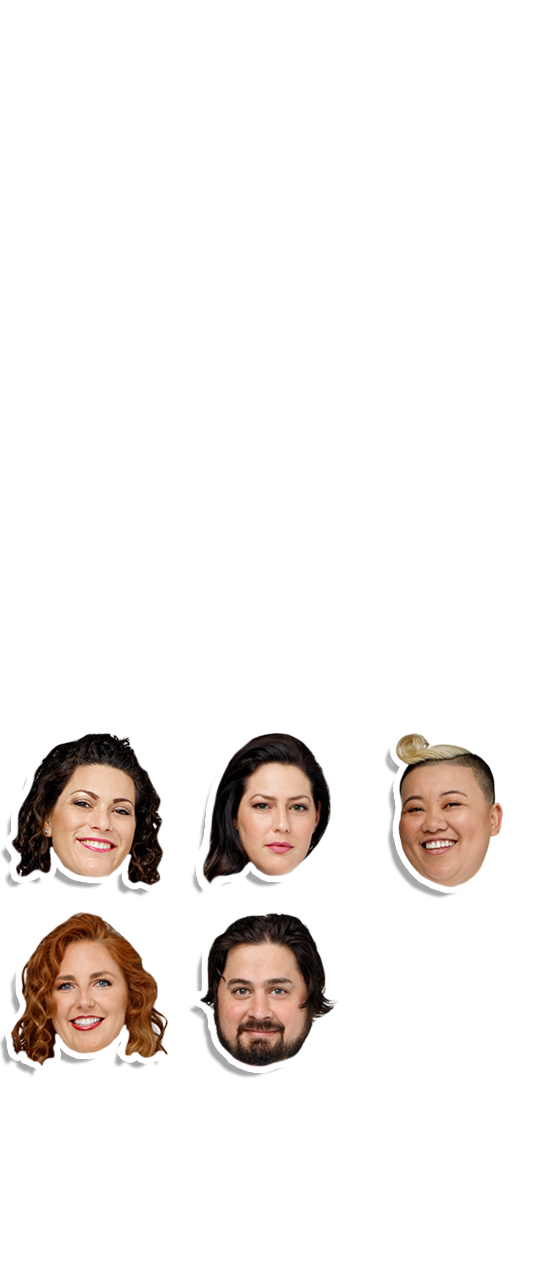
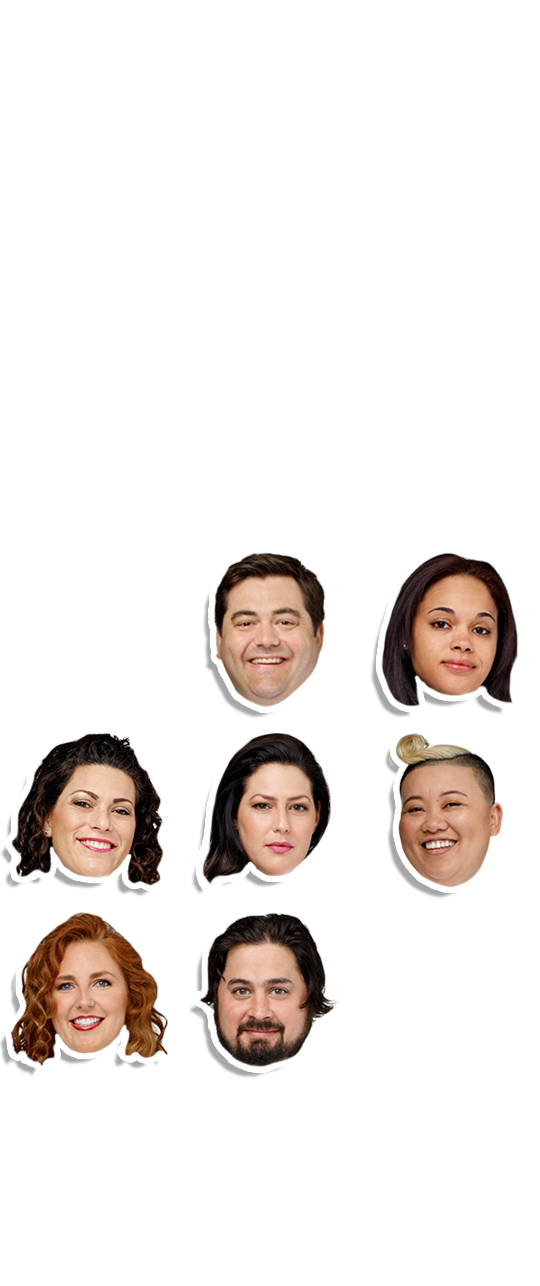
added new episode

Changed region(s): [[0.6815, 0.4044, 0.9778, 0.5599], [0.3556, 0.4044, 0.6222, 0.5599]]

diff --git a/css/main.css b/css/main.css
@@ -1,1 +1,1 @@
-html,body,div,span,applet,object,iframe,h1,h2,h3,h4,h5,h6,p,blockquote,pre,a,abbr,acronym,address,big,cite,code,del,dfn,em,img,ins,kbd,q,s,samp,small,strike,strong,sub,sup,tt,var,b,u,i,center,dl,dt,dd,ol,ul,li,fieldset,form,label,legend,table,caption,tbody,tfoot,thead,tr,th,td,article,aside,canvas,details,embed,figure,figcaption,footer,header,hgroup,menu,nav,output,ruby,section,summary,time,mark,audio,video{margin:0;padding:0;border:0;font-size:100%;font:inherit;vertical-align:baseline}article,aside,details,figcaption,figure,footer,header,hgroup,menu,nav,section{display:block}body{line-height:1}ol,ul{list-style:none}blockquote,q{quotes:none}blockquote:before,blockquote:after,q:before,q:after{content:'';content:none}table{border-collapse:collapse;border-spacing:0}*,*:after,*:before{-moz-box-sizing:border-box;-webkit-box-sizing:border-box;box-sizing:border-box}html{font-size:100%;-webkit-text-size-adjust:none}body{text-rendering:optimizeLegibility;-webkit-font-smoothing:antialiased;font-family:'Helvetica Neue',Helvetica,Arial,sans-serif;font-size:18px;line-height:1.4;color:white;background:#333}::-moz-selection{background-color:#ba55d3;color:white}::selection{background-color:#ba55d3;color:white}h1,p{margin-bottom:20px}h1{font-weight:bold}a{display:inline-block;text-decoration:none;color:#0ff}p a{border-bottom:1px dotted transparent;}p a:hover{border-bottom:1px dotted #0ff}p{margin:0 0 20px}em{font-style:italic}img:not(.avatar){width:100%;max-width:100%}.footnote{font-size:14px;color:rgba(255,255,255,0.6)}.cf:before,.grid:before,.cf:after,.grid:after{content:" ";display:table}.cf:after,.grid:after{clear:both}.nav-main{height:45px;position:relative;background:#333;}.nav-main a,.nav-main label{color:white}.nav-main .nav-home{margin:10px 20px;float:left}.nav-main input.menu-toggle{visibility:hidden;position:absolute;left:-100%}.nav-main label{padding:10px 20px;float:right;background:#800080;border-left:1px solid rgba(255,255,255,0.2);cursor:pointer}.nav-main .nav-seasons{display:none;position:absolute;top:45px;left:0;z-index:100}.nav-main .menu-toggle:checked ~ .nav-seasons{display:block}.nav-main .nav-seasons{background-image:linear-gradient(to right,#4682b4,#c71585)}.nav-seasons{width:100%;background-image:linear-gradient(to right,#4682b4,#008b8b);border-top:1px solid rgba(255,255,255,0.3);border-bottom:1px solid rgba(255,255,255,0.3);box-shadow:0 3px 3px rgba(0,0,0,0.2);}.nav-seasons li{float:left;border-right:1px solid rgba(255,255,255,0.3);}.nav-seasons li a{padding:10px;display:block;color:white;}.nav-seasons li a:hover{background:rgba(0,0,0,0.1)}.nav-seasons li span{display:block}.nav-seasons li span:first-of-type{font-size:24px;font-weight:bold}.nav-seasons li span:nth-of-type(2){font-size:15px}@media screen and (max-width:400px){.nav-seasons li{width:25%;}.nav-seasons li:nth-child(-n+12){border-bottom:1px solid rgba(255,255,255,0.3)}.nav-seasons li:nth-child(4),.nav-seasons li:nth-child(8),.nav-seasons li:nth-child(12){border-right:none}}@media screen and (min-width:401px) and (max-width:650px){.nav-seasons li{width:20%;}.nav-seasons li:nth-child(-n+10){border-bottom:1px solid rgba(255,255,255,0.3)}.nav-seasons li:nth-child(5),.nav-seasons li:nth-child(10){border-right:none}}@media screen and (min-width:651px) and (max-width:1030px){.nav-seasons li{width:14.28%;}.nav-seasons li:nth-child(-n+7){border-bottom:1px solid rgba(255,255,255,0.3)}.nav-seasons li:nth-child(7){border-right:none}}@media screen and (min-width:1031px){.nav-seasons li{width:7.69%;}.nav-seasons li:last-child{border-right:none}}@media screen and (max-width:700px){.grid{padding-bottom:40px}}@media screen and (min-width:701px){.grid-item{margin:0 0 30px;padding:0 15px;float:left}.grid-sm-1{width:100%}.grid-sm-2{width:50%}.grid-sm-3{width:33.33%}}@media screen and (min-width:1001px){.grid-item{margin:0 0 50px;padding:0 25px}.grid-lg-2{width:50%}.grid-lg-3{width:33.33%}.grid-lg-3-1{width:66.66%}.grid-lg-4{width:25%}.grid-lg-5{width:20%}}.intro{margin:0 auto 30px;padding:30px 15px;background:rgba(0,0,0,0.1);text-align:center;}.intro h1{font-size:45px;}.intro h1 span{display:block}.intro h1 span:last-child{font-size:30px}.intro h2{margin-bottom:20px;font-size:24px}.intro p{max-width:500px;margin-left:auto;margin-right:auto}@media screen and (max-width:500px){.intro h1{font-size:35px;}.intro h1 span:last-child{font-size:20px}}@media screen and (min-width:701px) and (max-width:1000px){.intro{margin-bottom:60px}}@media screen and (min-width:1001px){.intro{margin-bottom:100px}}@media screen and (min-width:701px){.avatar{width:90px;height:90px}}@media screen and (max-width:700px){.avatar{width:70px;height:70px}}.icon{background:no-repeat left top;}.icon.woman{background-image:url("../images/woman.svg")}.icon.man{background-image:url("../images/man.svg")}.stat .number{position:relative;font-weight:bold;}.stat .number span{display:inline-block}.stat .number span + span{margin-left:15px}.stat .number .roster{padding-left:50px;position:absolute;right:0;}.stat .number .roster .avatar{float:right}.stat .name{margin-left:10px;display:inline-block;position:absolute;background:rgba(0,0,0,0.2);border-radius:3px;font-weight:normal;line-height:1;}.stat .name .avatar{display:block;position:absolute}@media screen and (max-width:700px){.stat:not(.person){padding:10px 0;border-bottom:1px solid rgba(255,255,255,0.5);}.stat:not(.person) h2{padding-top:10px;float:left}.stat:not(.person) .number{text-align:right;font-size:30px}.stat:not(.person) .woman,.stat:not(.person) .man{background-position:left 9px;background-size:auto 23px;padding-left:23px}.stat.person h2{padding:20px 0 5px;border-bottom:1px solid rgba(255,255,255,0.5)}.stat.person .number{font-size:55px;}.stat.person .number .roster{top:8px}.stat.person .name{padding:8px 40px 8px 10px;top:25px;right:30px;font-size:15px;}.stat.person .name .avatar{top:-15px;right:-35px}}@media screen and (min-width:701px){.stat h2{border-bottom:1px solid rgba(255,255,255,0.5)}.stat .number{font-size:85px;}.stat .number .roster{top:15px}.stat .name{padding:8px 45px 6px 10px;top:50px;right:40px;font-size:16px;}.stat .name .avatar{top:-32px;right:-45px}.stat .woman,.stat .man{background-position:left center;background-size:auto 50px;padding-left:40px}}.featured{padding:30px 15px 20px;background:rgba(0,0,0,0.1);text-align:center;clear:left;}.featured .number,.featured .phrase{font-weight:bold}.featured .phrase{margin-top:5px;margin-bottom:20px;font-size:40px;line-height:1.2}.featured.restaurant-wars .avatar{margin-bottom:15px}.featured.phrase-list{background:rgba(255,255,255,0.1);border-top:1px solid rgba(255,255,255,0.2);border-bottom:1px solid rgba(255,255,255,0.2);}.featured.phrase-list .phrase{margin-bottom:40px}.featured.phrase-list p{margin-bottom:8px;padding:5px 45px 5px 10px;position:relative;background:rgba(0,0,0,0.05);border-radius:3px;}.featured.phrase-list p span{position:absolute;top:50%;-webkit-transform:translateY(-50%);-moz-transform:translateY(-50%);transform:translateY(-50%);right:10px;font-size:12px;font-weight:bold}.featured .roster{margin-left:auto;margin-right:auto;max-width:850px}@media screen and (max-width:700px){.featured{margin:30px 0;}.featured .number{font-size:40px}.featured .phrase{font-size:25px}.featured.phrase-list .grid-item{margin-bottom:0}}@media screen and (min-width:701px){.featured{margin:0 0 80px;}.featured .number{font-size:85px}.featured.phrase-list .grid-item{margin-bottom:20px}}.roster .avatar{margin:0 -5px;position:relative;z-index:2}.roster .winner{display:inline-block;position:relative;}.roster .winner:before{width:100%;display:block;position:absolute;left:0;content:'WINNER!';z-index:1;font-size:11px;font-weight:bold;letter-spacing:1px;color:white}h2 + .roster{margin-top:15px}@media screen and (max-width:390px){.stat.roster-lg{min-height:190px}}@media screen and (max-width:450px){.season-13 .stat.roster-lg{min-height:190px}}@media screen and (max-width:700px){.roster .winner:before{top:75px}}@media screen and (min-width:701px){.roster .winner:before{top:92px}}@media screen and (min-width:701px) and (max-width:1000px){.stat.roster-lg{min-height:240px}}.ranking{list-style:none;}.ranking li{width:100%;margin:0 0 15px;padding:25px 0;padding-left:60px;position:relative;background-image:linear-gradient(to right,rgba(0,0,0,0) 20px,rgba(0,0,0,0.2) 20px);border-radius:0 3px 3px 0;font-size:16px;}.ranking li .chef{width:90px;height:90px;position:absolute;top:-10px;background:no-repeat;background-size:270px auto}.ranking li:nth-child(1) .chef{background-position:0 0}.ranking li:nth-child(2) .chef{background-position:-90px 0}.ranking li:nth-child(3) .chef{background-position:-180px 0}.ranking li:nth-child(4) .chef{background-position:0 -90px}.ranking li:nth-child(5) .chef{background-position:-90px -90px}.ranking li:nth-child(6) .chef{background-position:-180px -90px}.ranking li:nth-child(7) .chef{background-position:0 -180px}.ranking li:nth-child(8) .chef{background-position:-90px -180px}.ranking li:nth-child(9) .chef{background-position:-180px -180px}.ranking li:nth-child(10) .chef{background-position:0 -270px}.ranking li:nth-child(11) .chef{background-position:-90px -270px}.ranking li:nth-child(12) .chef{background-position:-180px -270px}.ranking li:nth-child(13) .chef{background-position:0 -360px}.ranking li:nth-child(14) .chef{background-position:-90px -360px}.ranking li:nth-child(15) .chef{background-position:-180px -360px}.ranking li:nth-child(16) .chef{background-position:0 -450px}.ranking li:nth-child(17) .chef{background-position:-90px -450px}.ranking li:nth-child(18) .chef{background-position:-180px -450px}.ranking li:nth-child(19) .chef{background-position:0 -540px}.ranking li:nth-child(20) .chef{background-position:-90px -540px}.ranking li span{padding-right:50px;display:block;position:relative;}.ranking li span:after{padding:7px 10px;position:absolute;right:5px;top:-6px;font-weight:bold}.ranking li:nth-child(2) span:after{content:'2nd'}.ranking li:nth-child(2) span:after{content:'2nd'}.ranking li:nth-child(3) span:after{content:'3rd'}.ranking li:nth-child(4) span:after{content:'4th'}.ranking li:nth-child(5) span:after{content:'5th'}.ranking li:nth-child(6) span:after{content:'6th'}.ranking li:nth-child(7) span:after{content:'7th'}.ranking li:nth-child(8) span:after{content:'8th'}.ranking li:nth-child(9) span:after{content:'9th'}.ranking li:nth-child(10) span:after{content:'10th'}.ranking li:nth-child(11) span:after{content:'11th'}.ranking li:nth-child(12) span:after{content:'12th'}.ranking li:nth-child(13) span:after{content:'13th'}.ranking li:nth-child(14) span:after{content:'14th'}.ranking li:nth-child(15) span:after{content:'15th'}.ranking li:nth-child(16) span:after{content:'16th'}.ranking li:nth-child(17) span:after{content:'17th'}.ranking li:nth-child(18) span:after{content:'18th'}.ranking li:nth-child(19) span:after{content:'19th'}.ranking li:nth-child(20) span:after{content:'20th'}.ranking li:first-child span:before,.ranking li.fan-fave span:before{width:0;height:0;content:'';position:absolute;right:-10px;top:25px;border-style:solid;border-width:10px 10px 0 0}.ranking li:first-child span:after,.ranking li.fan-fave span:after{right:-10px;font-size:16px;line-height:1}.ranking li:first-child span:before{border-color:#daa520 transparent transparent transparent}.ranking li:first-child span:after{content:'Winner';background:#ffd700;color:#a52a2a}.ranking li.fan-fave span:before{border-color:#4b0082 transparent transparent transparent}.ranking li.fan-fave span:after{content:'Fan Fave';background:#9932cc;color:white}.ranking.current li:nth-child(-n+12){display:none}@media screen and (max-width:700px){.ranking li{padding:15px 0;padding-left:55px;}.ranking li .chef{left:-15px;width:70px;height:70px;background-size:210px auto}.ranking li:nth-child(1) .chef{background-position:0 0}.ranking li:nth-child(2) .chef{background-position:-70px 0}.ranking li:nth-child(3) .chef{background-position:-140px 0}.ranking li:nth-child(4) .chef{background-position:0 -70px}.ranking li:nth-child(5) .chef{background-position:-70px -70px}.ranking li:nth-child(6) .chef{background-position:-140px -70px}.ranking li:nth-child(7) .chef{background-position:0 -140px}.ranking li:nth-child(8) .chef{background-position:-70px -140px}.ranking li:nth-child(9) .chef{background-position:-140px -140px}.ranking li:nth-child(10) .chef{background-position:0 -210px}.ranking li:nth-child(11) .chef{background-position:-70px -210px}.ranking li:nth-child(12) .chef{background-position:-140px -210px}.ranking li:nth-child(13) .chef{background-position:0 -280px}.ranking li:nth-child(14) .chef{background-position:-70px -280px}.ranking li:nth-child(15) .chef{background-position:-140px -280px}.ranking li:nth-child(16) .chef{background-position:0 -350px}.ranking li:nth-child(17) .chef{background-position:-70px -350px}.ranking li:nth-child(18) .chef{background-position:-140px -350px}.ranking li:nth-child(19) .chef{background-position:0 -420px}.ranking li:nth-child(20) .chef{background-position:-70px -420px}}@media screen and (min-width:701px){.ranking li{padding-left:60px;}.ranking li .chef{left:-30px}}footer{padding:40px 20px;background:#333;text-align:center;}footer p{margin-bottom:20px}.p0{padding:0}.m0{margin:0}.center{text-align:center}.left{text-align:left}.bg-dark{background:rgba(0,0,0,0.1)}.bg-light{background:rgba(255,255,255,0.1)}.season{background:linear-gradient(175deg,#008b8b 0,#c71585 100%);padding:20px;}.season.home{background:linear-gradient(170deg,#4682b4 0,#008b8b 50%,#c71585 100%)}.season.glossary,.season.four-oh-four{background:linear-gradient(170deg,#4682b4 0,#008b8b 50%)}.season-01 .ranking li .chef{background-image:url("/images/season-01.png")}.season-02 .ranking li .chef{background-image:url("/images/season-02.png")}.season-03 .ranking li .chef{background-image:url("/images/season-03.png")}.season-04 .ranking li .chef{background-image:url("/images/season-04.png")}.season-05 .ranking li .chef{background-image:url("/images/season-05.png")}.season-06 .ranking li .chef{background-image:url("/images/season-06.png")}.season-07 .ranking li .chef{background-image:url("/images/season-07.png")}.season-08 .ranking li .chef{background-image:url("/images/season-08.png")}.season-09 .ranking li .chef{background-image:url("/images/season-09.png")}.season-10 .ranking li .chef{background-image:url("/images/season-10.png")}.season-11 .ranking li .chef{background-image:url("/images/season-11.png")}.season-12 .ranking li .chef{background-image:url("/images/season-12.png")}.season-13 .ranking li .chef{background-image:url("/images/season-13.png")}.glossary-list{max-width:550px;margin:0 auto 60px;}.glossary-list dt{margin-bottom:10px;font-weight:bold;font-size:20px}.glossary-list dd{margin-bottom:40px}.glossary-list p{margin-left:20px;margin-bottom:20px}.glossary-list ol{list-style:decimal;padding-left:45px;}.glossary-list ol li{margin-bottom:10px}@media screen and (min-width:1001px){.glossary-list{margin-top:-40px}}
+html,body,div,span,applet,object,iframe,h1,h2,h3,h4,h5,h6,p,blockquote,pre,a,abbr,acronym,address,big,cite,code,del,dfn,em,img,ins,kbd,q,s,samp,small,strike,strong,sub,sup,tt,var,b,u,i,center,dl,dt,dd,ol,ul,li,fieldset,form,label,legend,table,caption,tbody,tfoot,thead,tr,th,td,article,aside,canvas,details,embed,figure,figcaption,footer,header,hgroup,menu,nav,output,ruby,section,summary,time,mark,audio,video{margin:0;padding:0;border:0;font-size:100%;font:inherit;vertical-align:baseline}article,aside,details,figcaption,figure,footer,header,hgroup,menu,nav,section{display:block}body{line-height:1}ol,ul{list-style:none}blockquote,q{quotes:none}blockquote:before,blockquote:after,q:before,q:after{content:'';content:none}table{border-collapse:collapse;border-spacing:0}*,*:after,*:before{-moz-box-sizing:border-box;-webkit-box-sizing:border-box;box-sizing:border-box}html{font-size:100%;-webkit-text-size-adjust:none}body{text-rendering:optimizeLegibility;-webkit-font-smoothing:antialiased;font-family:'Helvetica Neue',Helvetica,Arial,sans-serif;font-size:18px;line-height:1.4;color:white;background:#333}::-moz-selection{background-color:#ba55d3;color:white}::selection{background-color:#ba55d3;color:white}h1,p{margin-bottom:20px}h1{font-weight:bold}a{display:inline-block;text-decoration:none;color:#0ff}p a{border-bottom:1px dotted transparent;}p a:hover{border-bottom:1px dotted #0ff}p{margin:0 0 20px}em{font-style:italic}img:not(.avatar){width:100%;max-width:100%}.footnote{font-size:14px;color:rgba(255,255,255,0.6)}.cf:before,.grid:before,.cf:after,.grid:after{content:" ";display:table}.cf:after,.grid:after{clear:both}.nav-main{height:45px;position:relative;background:#333;}.nav-main a,.nav-main label{color:white}.nav-main .nav-home{margin:10px 20px;float:left}.nav-main input.menu-toggle{visibility:hidden;position:absolute;left:-100%}.nav-main label{padding:10px 20px;float:right;background:#800080;border-left:1px solid rgba(255,255,255,0.2);cursor:pointer}.nav-main .nav-seasons{display:none;position:absolute;top:45px;left:0;z-index:100}.nav-main .menu-toggle:checked ~ .nav-seasons{display:block}.nav-main .nav-seasons{background-image:linear-gradient(to right,#4682b4,#c71585)}.nav-seasons{width:100%;background-image:linear-gradient(to right,#4682b4,#008b8b);border-top:1px solid rgba(255,255,255,0.3);border-bottom:1px solid rgba(255,255,255,0.3);box-shadow:0 3px 3px rgba(0,0,0,0.2);}.nav-seasons li{float:left;border-right:1px solid rgba(255,255,255,0.3);}.nav-seasons li a{padding:10px;display:block;color:white;}.nav-seasons li a:hover{background:rgba(0,0,0,0.1)}.nav-seasons li span{display:block}.nav-seasons li span:first-of-type{font-size:24px;font-weight:bold}.nav-seasons li span:nth-of-type(2){font-size:15px}@media screen and (max-width:400px){.nav-seasons li{width:25%;}.nav-seasons li:nth-child(-n+12){border-bottom:1px solid rgba(255,255,255,0.3)}.nav-seasons li:nth-child(4),.nav-seasons li:nth-child(8),.nav-seasons li:nth-child(12){border-right:none}}@media screen and (min-width:401px) and (max-width:650px){.nav-seasons li{width:20%;}.nav-seasons li:nth-child(-n+10){border-bottom:1px solid rgba(255,255,255,0.3)}.nav-seasons li:nth-child(5),.nav-seasons li:nth-child(10){border-right:none}}@media screen and (min-width:651px) and (max-width:1030px){.nav-seasons li{width:14.28%;}.nav-seasons li:nth-child(-n+7){border-bottom:1px solid rgba(255,255,255,0.3)}.nav-seasons li:nth-child(7){border-right:none}}@media screen and (min-width:1031px){.nav-seasons li{width:7.69%;}.nav-seasons li:last-child{border-right:none}}@media screen and (max-width:700px){.grid{padding-bottom:40px}}@media screen and (min-width:701px){.grid-item{margin:0 0 30px;padding:0 15px;float:left}.grid-sm-1{width:100%}.grid-sm-2{width:50%}.grid-sm-3{width:33.33%}}@media screen and (min-width:1001px){.grid-item{margin:0 0 50px;padding:0 25px}.grid-lg-2{width:50%}.grid-lg-3{width:33.33%}.grid-lg-3-1{width:66.66%}.grid-lg-4{width:25%}.grid-lg-5{width:20%}}.intro{margin:0 auto 30px;padding:30px 15px;background:rgba(0,0,0,0.1);text-align:center;}.intro h1{font-size:45px;}.intro h1 span{display:block}.intro h1 span:last-child{font-size:30px}.intro h2{margin-bottom:20px;font-size:24px}.intro p{max-width:500px;margin-left:auto;margin-right:auto}@media screen and (max-width:500px){.intro h1{font-size:35px;}.intro h1 span:last-child{font-size:20px}}@media screen and (min-width:701px) and (max-width:1000px){.intro{margin-bottom:60px}}@media screen and (min-width:1001px){.intro{margin-bottom:100px}}@media screen and (min-width:701px){.avatar{width:90px;height:90px}}@media screen and (max-width:700px){.avatar{width:70px;height:70px}}.icon{background:no-repeat left top;}.icon.woman{background-image:url("../images/woman.svg")}.icon.man{background-image:url("../images/man.svg")}.stat .number{position:relative;font-weight:bold;}.stat .number span{display:inline-block}.stat .number span + span{margin-left:15px}.stat .number .roster{padding-left:50px;position:absolute;right:0;}.stat .number .roster .avatar{float:right}.stat .name{margin-left:10px;display:inline-block;position:absolute;background:rgba(0,0,0,0.2);border-radius:3px;font-weight:normal;line-height:1;}.stat .name .avatar{display:block;position:absolute}@media screen and (max-width:700px){.stat:not(.person){padding:10px 0;border-bottom:1px solid rgba(255,255,255,0.5);}.stat:not(.person) h2{padding-top:10px;float:left}.stat:not(.person) .number{text-align:right;font-size:30px}.stat:not(.person) .woman,.stat:not(.person) .man{background-position:left 9px;background-size:auto 23px;padding-left:23px}.stat.person h2{padding:20px 0 5px;border-bottom:1px solid rgba(255,255,255,0.5)}.stat.person .number{font-size:55px;}.stat.person .number .roster{top:8px}.stat.person .name{padding:8px 40px 8px 10px;top:25px;right:30px;font-size:15px;}.stat.person .name .avatar{top:-15px;right:-35px}}@media screen and (min-width:701px){.stat h2{border-bottom:1px solid rgba(255,255,255,0.5)}.stat .number{font-size:85px;}.stat .number .roster{top:15px}.stat .name{padding:8px 45px 6px 10px;top:50px;right:40px;font-size:16px;}.stat .name .avatar{top:-32px;right:-45px}.stat .woman,.stat .man{background-position:left center;background-size:auto 50px;padding-left:40px}}.featured{padding:30px 15px 20px;background:rgba(0,0,0,0.1);text-align:center;clear:left;}.featured .number,.featured .phrase{font-weight:bold}.featured .phrase{margin-top:5px;margin-bottom:20px;font-size:40px;line-height:1.2}.featured.restaurant-wars .avatar{margin-bottom:15px}.featured.phrase-list{background:rgba(255,255,255,0.1);border-top:1px solid rgba(255,255,255,0.2);border-bottom:1px solid rgba(255,255,255,0.2);}.featured.phrase-list .phrase{margin-bottom:40px}.featured.phrase-list p{margin-bottom:8px;padding:5px 45px 5px 10px;position:relative;background:rgba(0,0,0,0.05);border-radius:3px;}.featured.phrase-list p span{position:absolute;top:50%;-webkit-transform:translateY(-50%);-moz-transform:translateY(-50%);transform:translateY(-50%);right:10px;font-size:12px;font-weight:bold}.featured .roster{margin-left:auto;margin-right:auto;max-width:850px}@media screen and (max-width:700px){.featured{margin:30px 0;}.featured .number{font-size:40px}.featured .phrase{font-size:25px}.featured.phrase-list .grid-item{margin-bottom:0}}@media screen and (min-width:701px){.featured{margin:0 0 80px;}.featured .number{font-size:85px}.featured.phrase-list .grid-item{margin-bottom:20px}}.roster .avatar{margin:0 -5px;position:relative;z-index:2}.roster .winner{display:inline-block;position:relative;}.roster .winner:before{width:100%;display:block;position:absolute;left:0;content:'WINNER!';z-index:1;font-size:11px;font-weight:bold;letter-spacing:1px;color:white}h2 + .roster{margin-top:15px}@media screen and (max-width:390px){.stat.roster-lg{min-height:190px}}@media screen and (max-width:450px){.season-13 .stat.roster-lg{min-height:190px}}@media screen and (max-width:700px){.roster .winner:before{top:75px}}@media screen and (min-width:701px){.roster .winner:before{top:92px}}@media screen and (min-width:701px) and (max-width:1000px){.stat.roster-lg{min-height:240px}}.ranking{list-style:none;}.ranking li{width:100%;margin:0 0 15px;padding:25px 0;padding-left:60px;position:relative;background-image:linear-gradient(to right,rgba(0,0,0,0) 20px,rgba(0,0,0,0.2) 20px);border-radius:0 3px 3px 0;font-size:16px;}.ranking li .chef{width:90px;height:90px;position:absolute;top:-10px;background:no-repeat;background-size:270px auto}.ranking li:nth-child(1) .chef{background-position:0 0}.ranking li:nth-child(2) .chef{background-position:-90px 0}.ranking li:nth-child(3) .chef{background-position:-180px 0}.ranking li:nth-child(4) .chef{background-position:0 -90px}.ranking li:nth-child(5) .chef{background-position:-90px -90px}.ranking li:nth-child(6) .chef{background-position:-180px -90px}.ranking li:nth-child(7) .chef{background-position:0 -180px}.ranking li:nth-child(8) .chef{background-position:-90px -180px}.ranking li:nth-child(9) .chef{background-position:-180px -180px}.ranking li:nth-child(10) .chef{background-position:0 -270px}.ranking li:nth-child(11) .chef{background-position:-90px -270px}.ranking li:nth-child(12) .chef{background-position:-180px -270px}.ranking li:nth-child(13) .chef{background-position:0 -360px}.ranking li:nth-child(14) .chef{background-position:-90px -360px}.ranking li:nth-child(15) .chef{background-position:-180px -360px}.ranking li:nth-child(16) .chef{background-position:0 -450px}.ranking li:nth-child(17) .chef{background-position:-90px -450px}.ranking li:nth-child(18) .chef{background-position:-180px -450px}.ranking li:nth-child(19) .chef{background-position:0 -540px}.ranking li:nth-child(20) .chef{background-position:-90px -540px}.ranking li span{padding-right:50px;display:block;position:relative;}.ranking li span:after{padding:7px 10px;position:absolute;right:5px;top:-6px;font-weight:bold}.ranking li:nth-child(2) span:after{content:'2nd'}.ranking li:nth-child(2) span:after{content:'2nd'}.ranking li:nth-child(3) span:after{content:'3rd'}.ranking li:nth-child(4) span:after{content:'4th'}.ranking li:nth-child(5) span:after{content:'5th'}.ranking li:nth-child(6) span:after{content:'6th'}.ranking li:nth-child(7) span:after{content:'7th'}.ranking li:nth-child(8) span:after{content:'8th'}.ranking li:nth-child(9) span:after{content:'9th'}.ranking li:nth-child(10) span:after{content:'10th'}.ranking li:nth-child(11) span:after{content:'11th'}.ranking li:nth-child(12) span:after{content:'12th'}.ranking li:nth-child(13) span:after{content:'13th'}.ranking li:nth-child(14) span:after{content:'14th'}.ranking li:nth-child(15) span:after{content:'15th'}.ranking li:nth-child(16) span:after{content:'16th'}.ranking li:nth-child(17) span:after{content:'17th'}.ranking li:nth-child(18) span:after{content:'18th'}.ranking li:nth-child(19) span:after{content:'19th'}.ranking li:nth-child(20) span:after{content:'20th'}.ranking li:first-child span:before,.ranking li.fan-fave span:before{width:0;height:0;content:'';position:absolute;right:-10px;top:25px;border-style:solid;border-width:10px 10px 0 0}.ranking li:first-child span:after,.ranking li.fan-fave span:after{right:-10px;font-size:16px;line-height:1}.ranking li:first-child span:before{border-color:#daa520 transparent transparent transparent}.ranking li:first-child span:after{content:'Winner';background:#ffd700;color:#a52a2a}.ranking li.fan-fave span:before{border-color:#4b0082 transparent transparent transparent}.ranking li.fan-fave span:after{content:'Fan Fave';background:#9932cc;color:white}.ranking.current li:nth-child(-n+10){display:none}@media screen and (max-width:700px){.ranking li{padding:15px 0;padding-left:55px;}.ranking li .chef{left:-15px;width:70px;height:70px;background-size:210px auto}.ranking li:nth-child(1) .chef{background-position:0 0}.ranking li:nth-child(2) .chef{background-position:-70px 0}.ranking li:nth-child(3) .chef{background-position:-140px 0}.ranking li:nth-child(4) .chef{background-position:0 -70px}.ranking li:nth-child(5) .chef{background-position:-70px -70px}.ranking li:nth-child(6) .chef{background-position:-140px -70px}.ranking li:nth-child(7) .chef{background-position:0 -140px}.ranking li:nth-child(8) .chef{background-position:-70px -140px}.ranking li:nth-child(9) .chef{background-position:-140px -140px}.ranking li:nth-child(10) .chef{background-position:0 -210px}.ranking li:nth-child(11) .chef{background-position:-70px -210px}.ranking li:nth-child(12) .chef{background-position:-140px -210px}.ranking li:nth-child(13) .chef{background-position:0 -280px}.ranking li:nth-child(14) .chef{background-position:-70px -280px}.ranking li:nth-child(15) .chef{background-position:-140px -280px}.ranking li:nth-child(16) .chef{background-position:0 -350px}.ranking li:nth-child(17) .chef{background-position:-70px -350px}.ranking li:nth-child(18) .chef{background-position:-140px -350px}.ranking li:nth-child(19) .chef{background-position:0 -420px}.ranking li:nth-child(20) .chef{background-position:-70px -420px}}@media screen and (min-width:701px){.ranking li{padding-left:60px;}.ranking li .chef{left:-30px}}footer{padding:40px 20px;background:#333;text-align:center;}footer p{margin-bottom:20px}.p0{padding:0}.m0{margin:0}.center{text-align:center}.left{text-align:left}.bg-dark{background:rgba(0,0,0,0.1)}.bg-light{background:rgba(255,255,255,0.1)}.season{background:linear-gradient(175deg,#008b8b 0,#c71585 100%);padding:20px;}.season.home{background:linear-gradient(170deg,#4682b4 0,#008b8b 50%,#c71585 100%)}.season.glossary,.season.four-oh-four{background:linear-gradient(170deg,#4682b4 0,#008b8b 50%)}.season-01 .ranking li .chef{background-image:url("/images/season-01.png")}.season-02 .ranking li .chef{background-image:url("/images/season-02.png")}.season-03 .ranking li .chef{background-image:url("/images/season-03.png")}.season-04 .ranking li .chef{background-image:url("/images/season-04.png")}.season-05 .ranking li .chef{background-image:url("/images/season-05.png")}.season-06 .ranking li .chef{background-image:url("/images/season-06.png")}.season-07 .ranking li .chef{background-image:url("/images/season-07.png")}.season-08 .ranking li .chef{background-image:url("/images/season-08.png")}.season-09 .ranking li .chef{background-image:url("/images/season-09.png")}.season-10 .ranking li .chef{background-image:url("/images/season-10.png")}.season-11 .ranking li .chef{background-image:url("/images/season-11.png")}.season-12 .ranking li .chef{background-image:url("/images/season-12.png")}.season-13 .ranking li .chef{background-image:url("/images/season-13.png")}.glossary-list{max-width:550px;margin:0 auto 60px;}.glossary-list dt{margin-bottom:10px;font-weight:bold;font-size:20px}.glossary-list dd{margin-bottom:40px}.glossary-list p{margin-left:20px;margin-bottom:20px}.glossary-list ol{list-style:decimal;padding-left:45px;}.glossary-list ol li{margin-bottom:10px}@media screen and (min-width:1001px){.glossary-list{margin-top:-40px}}

diff --git a/season-13/index.html b/season-13/index.html
@@ -70,10 +70,10 @@
             <div class="chef"></div><span></span>
           </li>
           <li>
-            <div class="chef"></div><span></span>
+            <div class="chef"></div><span>Wesley True</span>
           </li>
           <li>
-            <div class="chef"></div><span></span>
+            <div class="chef"></div><span>Angelina Bastidas</span>
           </li>
           <li>
             <div class="chef"></div><span>Giselle Wellman</span>
@@ -98,11 +98,11 @@
           </div>
           <div class="stat grid-item grid-sm-1 grid-lg-2">
             <h2>Total Guest Judges</h2>
-            <div class="number">7</div>
+            <div class="number">8</div>
           </div>
           <div class="stat grid-item grid-sm-1 grid-lg-2">
             <h2>Total Challenges</h2>
-            <div class="number">10</div>
+            <div class="number">13</div>
           </div>
           <div class="stat grid-item grid-sm-1">
             <h2>Total Team Challenges</h2>
@@ -110,8 +110,8 @@
           </div>
           <div class="stat person grid-item grid-sm-1 roster-lg">
             <h2>Most Quickfire Wins</h2>
-            <div class="number">1
-              <div class="roster"><img src="/images/jason-stratton.png" class="avatar"><img src="/images/wesley-true.png" class="avatar"><img src="/images/grayson-schmitz-s13.png" class="avatar"><img src="/images/amar-santana.png" class="avatar"><img src="/images/frances-tariga-weshnak.png" class="avatar"><img src="/images/renee-kelly.png" class="avatar"></div>
+            <div class="number">2
+              <div class="name">Wesley True<img src="/images/wesley-true.png" class="avatar"></div>
             </div>
           </div>
           <div class="stat person grid-item grid-sm-1 grid-lg-2">
@@ -123,7 +123,7 @@
           <div class="stat person grid-item grid-sm-1 grid-lg-2">
             <h2>Most Overall Wins</h2>
             <div class="number">2
-              <div class="roster"><img src="/images/kwame-onwuachi.png" class="avatar"><img src="/images/jeremy-ford.png" class="avatar"></div>
+              <div class="roster"><img src="/images/kwame-onwuachi.png" class="avatar"><img src="/images/jeremy-ford.png" class="avatar"><img src="/images/wesley-true.png" class="avatar"></div>
             </div>
           </div>
           <div class="featured relay-race">

diff --git a/index.html b/index.html
@@ -63,7 +63,7 @@
         </div>
         <div class="stat grid-item grid-sm-2 grid-lg-3">
           <h2>Total Guest Judges</h2>
-          <div class="number">157</div>
+          <div class="number">158</div>
         </div>
         <div class="stat person grid-item grid-sm-2 grid-lg-3">
           <h2>Most Frequent Guest Judge</h2>
@@ -81,7 +81,7 @@
         <div class="grid-item grid-sm-1 grid-lg-2 p0 m0">
           <div class="stat grid-item grid-sm-2">
             <h2>Total Cities</h2>
-            <div class="number">25</div>
+            <div class="number">26</div>
           </div>
           <div class="stat grid-item grid-sm-2">
             <h2>Total Countries</h2>
@@ -171,6 +171,7 @@
             <p>Top Captain<span>S 01</span></p>
             <p>Top Waiter<span>S 01</span></p>
             <p>Top Cook<span>S 03</span></p>
+            <p>Top Line Cook<span>S 13</span></p>
             <p>Top Pussy<span>S 05</span></p>
             <p>Top Scallops<span>S 05</span></p>
           </div>
